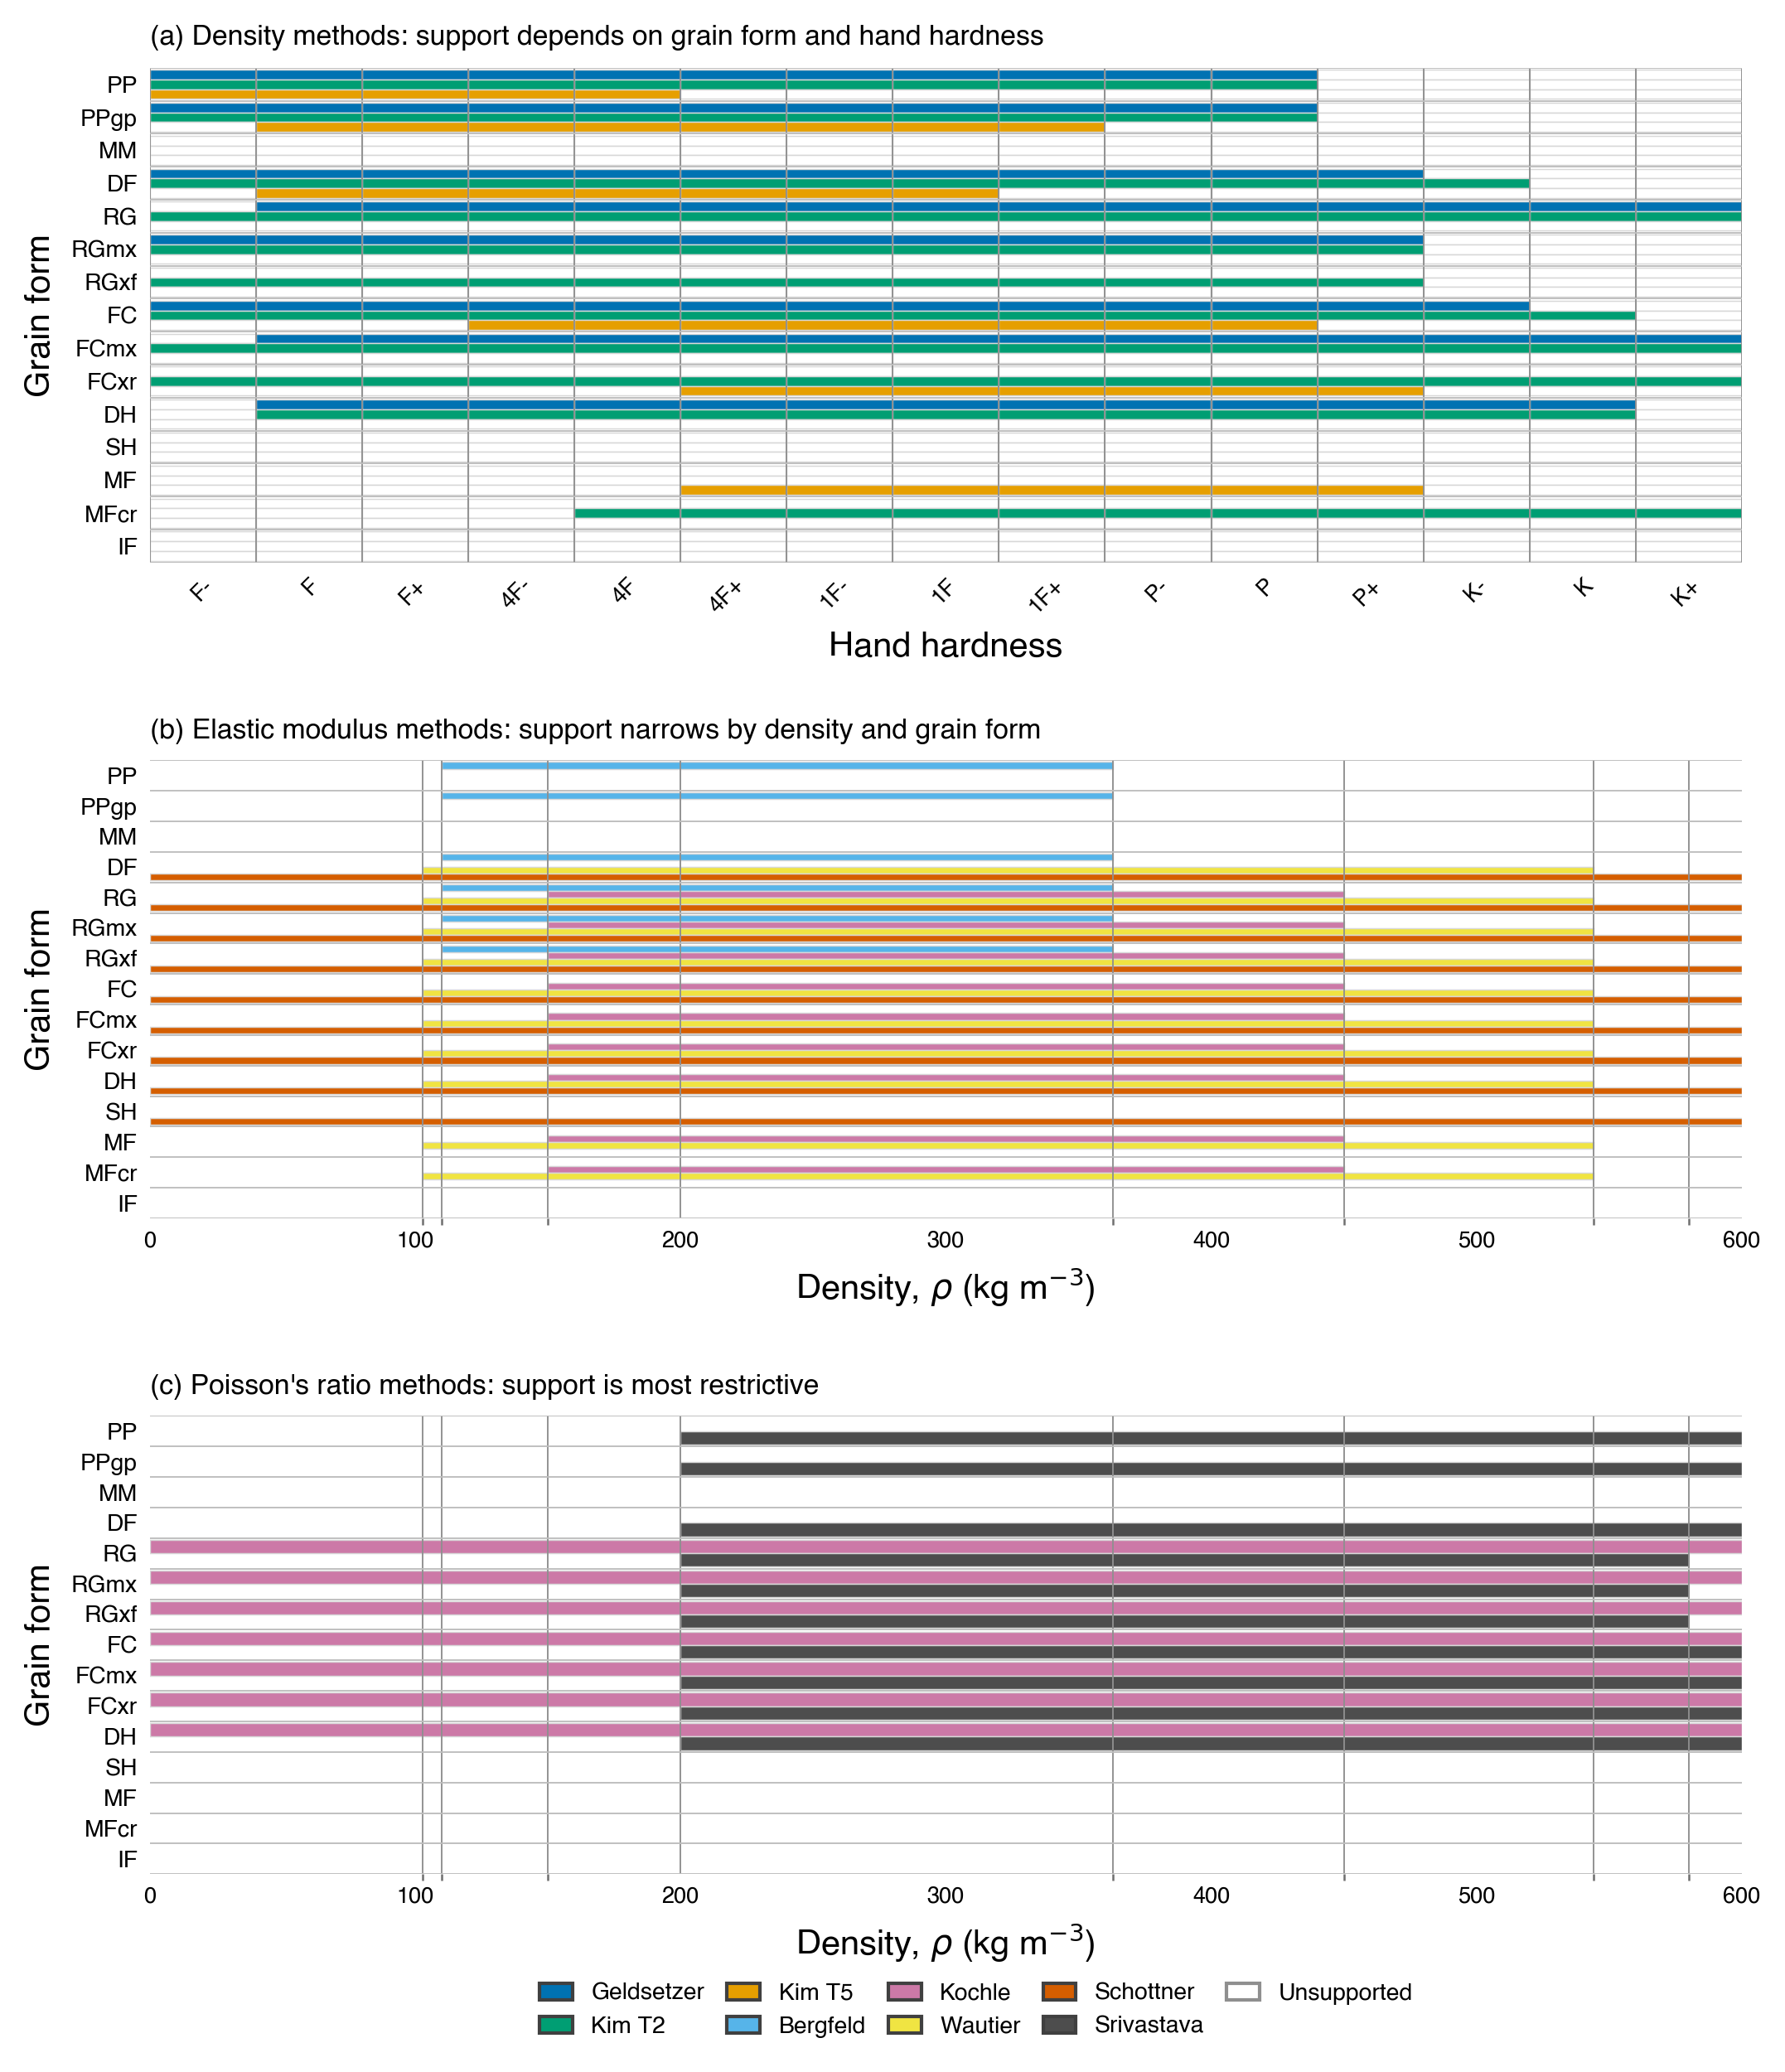
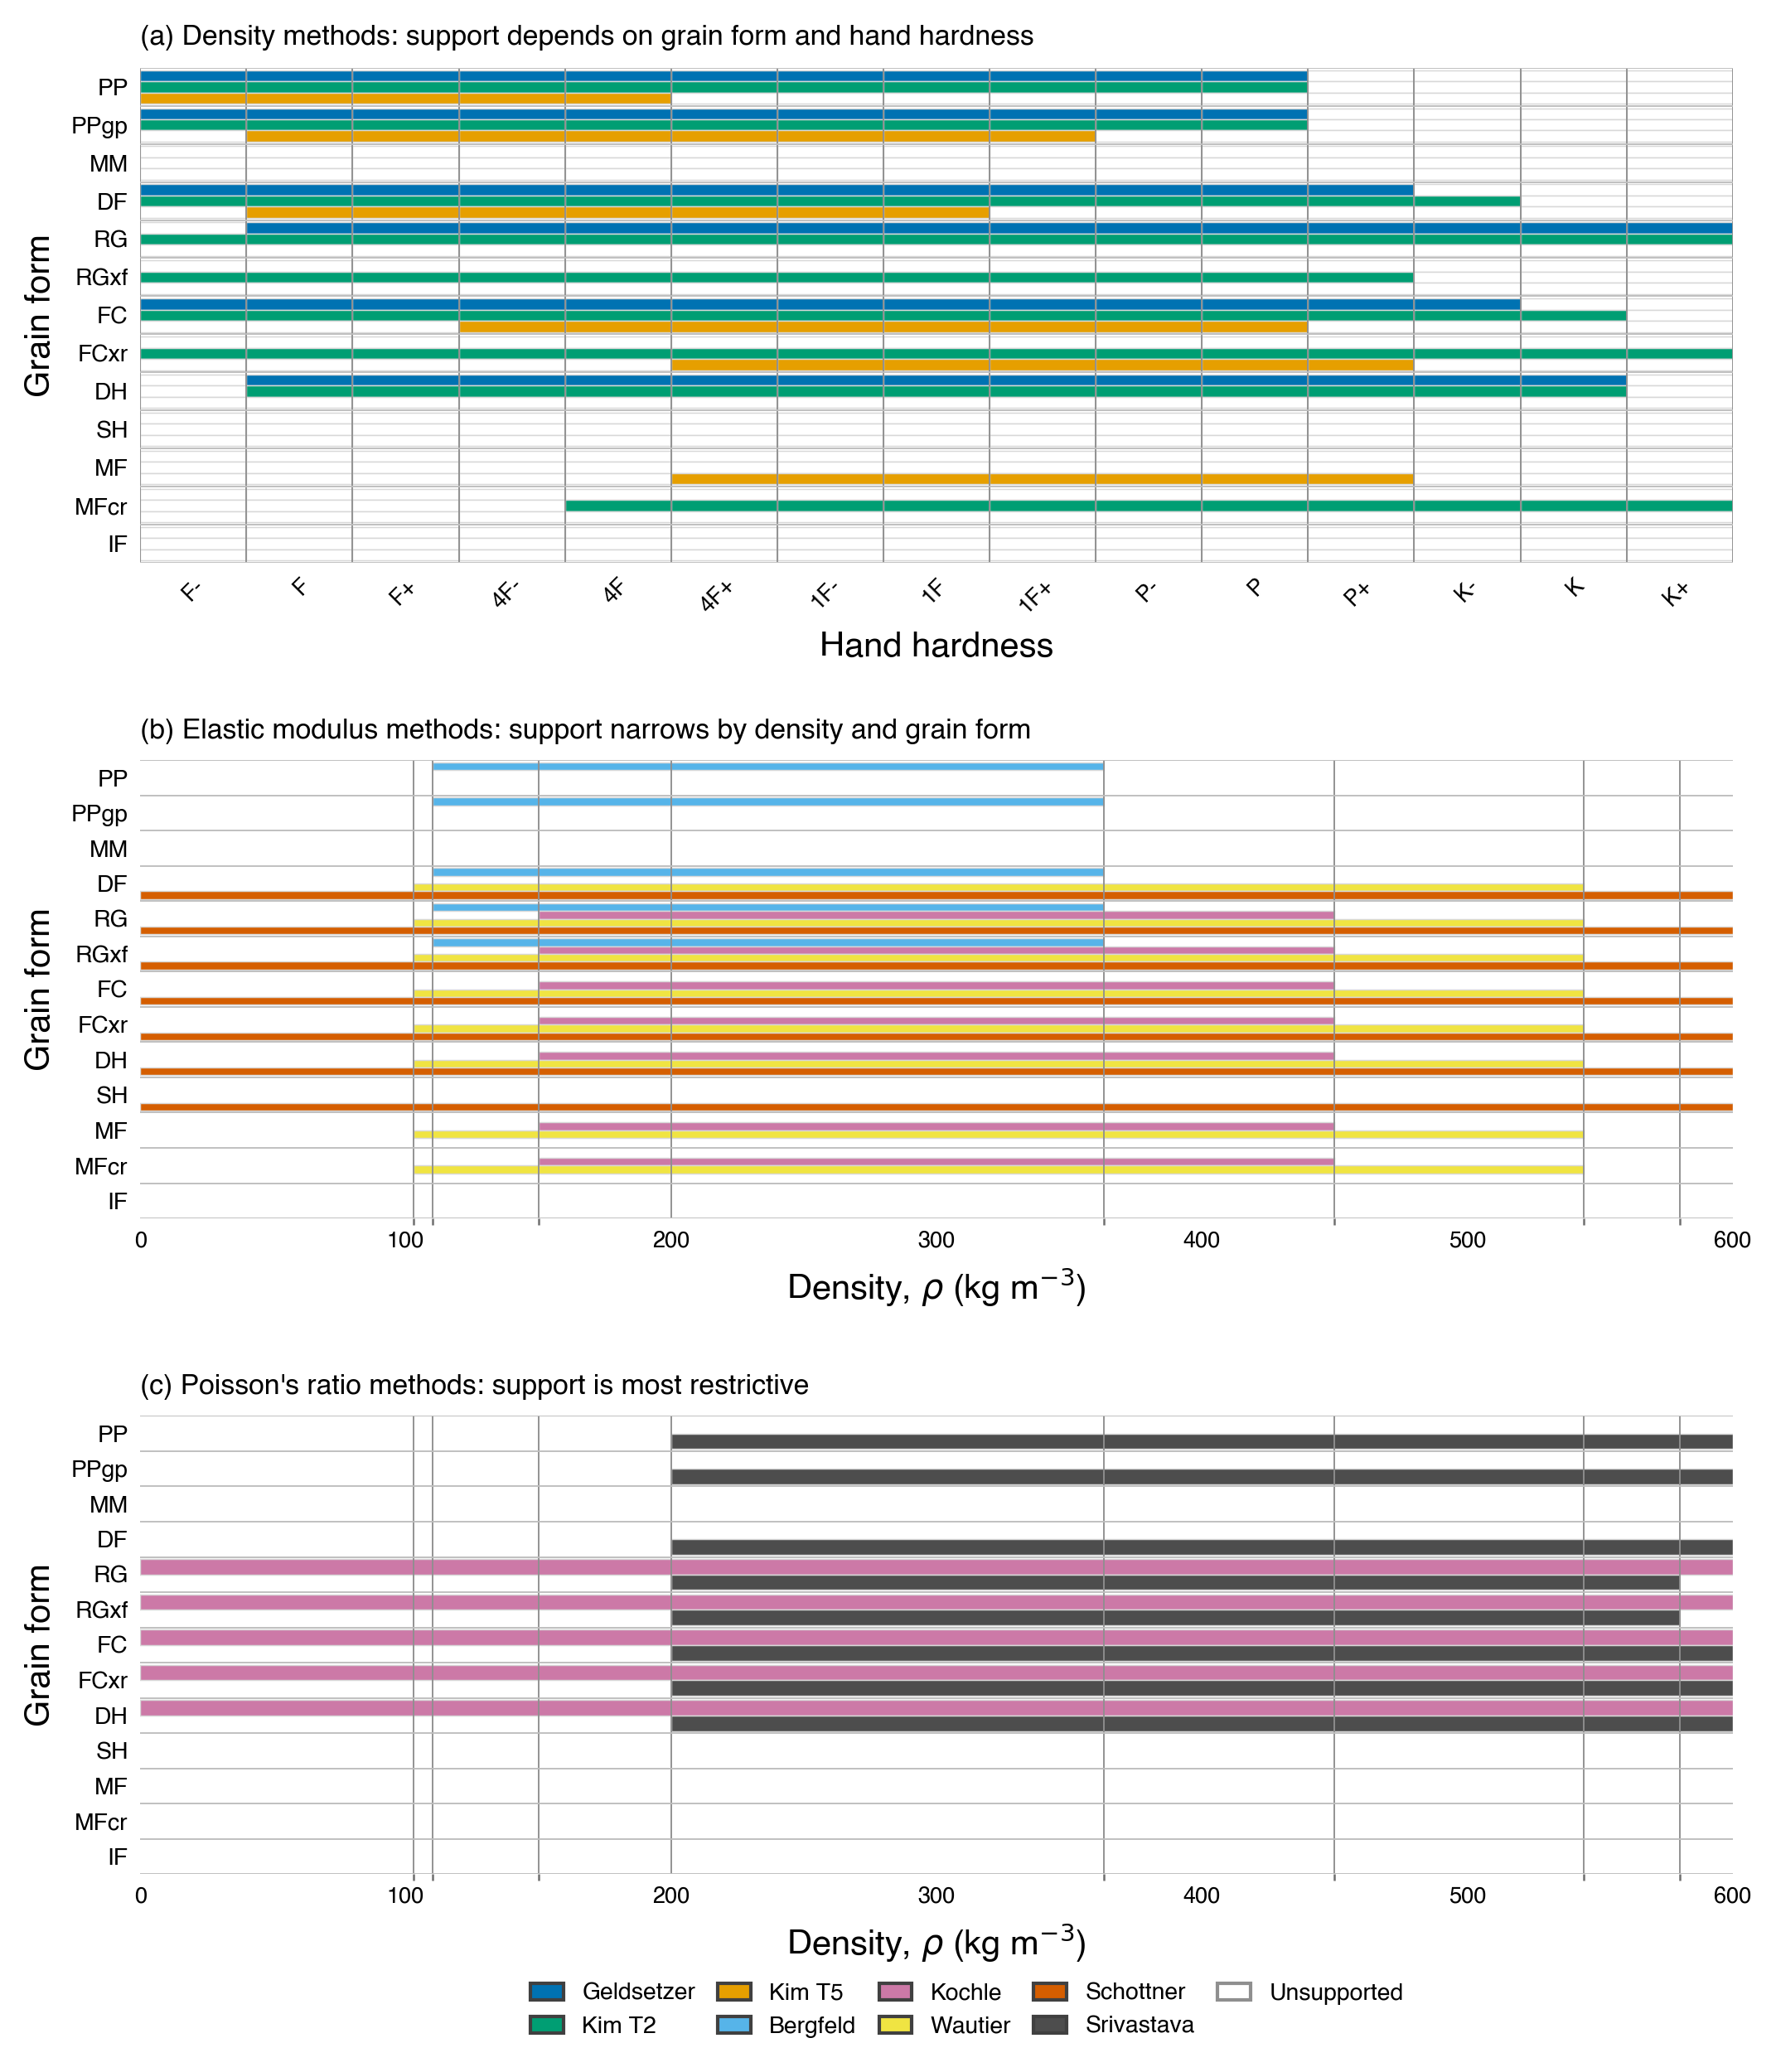
remove mx grain forms

diff --git a/tests/test_density_methods.py b/tests/test_density_methods.py
@@ -65,16 +65,6 @@ class TestGeldsetzerNumerical:
         )
         assert result.nominal_value == pytest.approx(expected, rel=1e-4)
 
-    def test_RGmx_linear(self):
-        """RGmx: rho = 91 + 42*h.  h=2.0 => rho=175."""
-        result = calculate_density(
-            "geldsetzer",
-            hand_hardness_index=ufloat(2.0, 0.0),
-            grain_form="RGmx",
-            include_method_uncertainty=False,
-        )
-        assert result.nominal_value == pytest.approx(175.0, abs=0.01)
-
     def test_unsupported_grain_form_returns_nan(self):
         result = calculate_density(
             "geldsetzer",
@@ -233,26 +223,6 @@ class TestKimJamiesonTable2Numerical:
             include_method_uncertainty=False,
         )
         assert result.nominal_value == pytest.approx(41.3 + 40.3 * 4.0, abs=0.01)
-
-    def test_RGmx_linear(self):
-        """RGmx uses the Kim & Jamieson mixed rounded-grain coefficients."""
-        result = calculate_density(
-            "kim_jamieson_table2",
-            hand_hardness_index=ufloat(4.33, 0.0),
-            grain_form="RGmx",
-            include_method_uncertainty=False,
-        )
-        assert result.nominal_value == pytest.approx(85.0 + 46.3 * 4.33, abs=0.01)
-
-    def test_FCmx_linear(self):
-        """FCmx uses the Kim & Jamieson mixed faceted-crystal coefficients."""
-        result = calculate_density(
-            "kim_jamieson_table2",
-            hand_hardness_index=ufloat(5.33, 0.0),
-            grain_form="FCmx",
-            include_method_uncertainty=False,
-        )
-        assert result.nominal_value == pytest.approx(68.8 + 58.6 * 5.33, abs=0.01)
 
 
 # ---------------------------------------------------------------------------

diff --git a/src/snowpyt_mechparams/layer_parameters/density.py b/src/snowpyt_mechparams/layer_parameters/density.py
@@ -90,13 +90,12 @@ def _calculate_density_geldsetzer(hand_hardness_index: UncertainValue, grain_for
         applied. Obtain via ``Layer.hand_hardness_index``.
     grain_form : str
         Grain form classification. Supported values:
-        - 'PP', 'PPgp', 'DF', 'RG', 'RGmx', 'FC', 'FCmx', 'DH'
+        - 'PP', 'PPgp', 'DF', 'RG', 'FC', 'DH'
         Supported hand-hardness ranges by grain form:
         - PP, PPgp: F- to P
-        - DF, RGmx: F- to P+
+        - DF: F- to P+
         - RG: F to K+
         - FC: F- to K-
-        - FCmx: F to K+
         - DH: F to K
 
     Returns
@@ -110,7 +109,7 @@ def _calculate_density_geldsetzer(hand_hardness_index: UncertainValue, grain_for
     -----
     The Geldsetzer formulas apply different regression models based on grain type:
     - Linear regression (rho = A + B*h): Used for most grain types including PP,
-      PPgp, DF, RGmx, FC, FCmx, and DH
+      PPgp, DF, FC, and DH
     - Non-linear regression (rho = A + B*h^x): Applied specifically to rounded
       grain types (RG) which do not conform well to linear relationships
 
@@ -131,7 +130,7 @@ def _calculate_density_geldsetzer(hand_hardness_index: UncertainValue, grain_for
     Workshop, Big Sky, Montana, USA, 1-6 October 2000, 121-127.
     """
     # Validate grain form
-    valid_grain_forms = ['PP', 'PPgp', 'DF', 'RG', 'RGmx', 'FC', 'FCmx', 'DH']
+    valid_grain_forms = ['PP', 'PPgp', 'DF', 'RG', 'FC', 'DH']
     if grain_form not in valid_grain_forms:
         logger.debug("_calculate_density_geldsetzer: unsupported grain_form=%r", grain_form)
         return ufloat(np.nan, np.nan)
@@ -148,9 +147,7 @@ def _calculate_density_geldsetzer(hand_hardness_index: UncertainValue, grain_for
         'PPgp': (0.67, 4.00),  # F- to P
         'DF': (0.67, 4.33),    # F- to P+
         'RG': (1.00, 5.33),    # F to K+
-        'RGmx': (0.67, 4.33),  # F- to P+
         'FC': (0.67, 4.67),    # F- to K-
-        'FCmx': (1.00, 5.33),  # F to K+
         'DH': (1.00, 5.00),    # F to K
     }
     min_hhi, max_hhi = hardness_ranges[grain_form]
@@ -166,9 +163,7 @@ def _calculate_density_geldsetzer(hand_hardness_index: UncertainValue, grain_for
         'PPgp': {'A': 83.0, 'B': 37.0, 'SE': 42.0, 'formula': 'linear'},
         'DF': {'A': 65.0, 'B': 36.0, 'SE': 30.0, 'formula': 'linear'},
         'RG': {'A': 154.0, 'B': 1.51, 'SE': 46.0, 'formula': 'nonlinear'},
-        'RGmx': {'A': 91.0, 'B': 42.0, 'SE': 32.0, 'formula': 'linear'},
         'FC': {'A': 112.0, 'B': 46.0, 'SE': 43.0, 'formula': 'linear'},
-        'FCmx': {'A': 56.0, 'B': 64.0, 'SE': 43.0, 'formula': 'linear'},
         'DH': {'A': 185.0, 'B': 25.0, 'SE': 41.0, 'formula': 'linear'}
     }
 
@@ -211,15 +206,14 @@ def _calculate_density_kim_jamieson_table2(
         applied. Obtain via ``Layer.hand_hardness_index``.
     grain_form : str
         Grain form classification. Supported values:
-        - 'PP', 'PPgp', 'DF', 'RG', 'RGmx', 'RGxf', 'FC', 'FCmx',
-          'FCxr', 'DH', 'MFcr'
+        - 'PP', 'PPgp', 'DF', 'RG', 'RGxf', 'FC', 'FCxr', 'DH', 'MFcr'
         Supported hand-hardness ranges by grain form, from Table 3:
         - PP, PPgp: F- to P
         - DF: F- to K-
         - RG: F- to K+
-        - RGmx/RGxf: F- to P+
+        - RGxf: F- to P+
         - FC: F- to K
-        - FCmx/FCxr: F- to K+
+        - FCxr: F- to K+
         - DH: F to K
         - MFcr: 4F to K+
 
@@ -252,7 +246,7 @@ def _calculate_density_kim_jamieson_table2(
     """
     # Validate grain form
     valid_grain_forms = [
-        'PP', 'PPgp', 'DF', 'RG', 'RGmx', 'RGxf', 'FC', 'FCmx', 'FCxr',
+        'PP', 'PPgp', 'DF', 'RG', 'RGxf', 'FC', 'FCxr',
         'DH', 'MFcr',
     ]
     if grain_form not in valid_grain_forms:
@@ -271,10 +265,8 @@ def _calculate_density_kim_jamieson_table2(
         'PPgp': (0.67, 4.00),  # F- to P
         'DF': (0.67, 4.67),    # F- to K-
         'RG': (0.67, 5.33),    # F- to K+
-        'RGmx': (0.67, 4.33),  # F- to P+
         'RGxf': (0.67, 4.33),  # F- to P+
         'FC': (0.67, 5.00),    # F- to K
-        'FCmx': (0.67, 5.33),  # F- to K+
         'FCxr': (0.67, 5.33),  # F- to K+
         'DH': (1.00, 5.00),    # F to K
         'MFcr': (2.00, 5.33),  # 4F to K+
@@ -300,10 +292,8 @@ def _calculate_density_kim_jamieson_table2(
         'PP': {'A': 41.3, 'B': 40.3, 'SE': 27.0, 'formula': 'linear'},
         'PPgp': {'A': 61.8, 'B': 46.4, 'SE': 43.0, 'formula': 'linear'},
         'DF': {'A': 62.5, 'B': 37.4, 'SE': 31.0, 'formula': 'linear'},
-        'RGmx': {'A': 85.0, 'B': 46.3, 'SE': 40.0, 'formula': 'linear'},
         'RGxf': {'A': 85.0, 'B': 46.3, 'SE': 40.0, 'formula': 'linear'},
         'FC': {'A': 103, 'B': 50.6, 'SE': 47.0, 'formula': 'linear'},
-        'FCmx': {'A': 68.8, 'B': 58.6, 'SE': 46.0, 'formula': 'linear'},
         'FCxr': {'A': 68.8, 'B': 58.6, 'SE': 46.0, 'formula': 'linear'},
         'DH': {'A': 214.0, 'B': 19.0, 'SE': 48.0, 'formula': 'linear'},
         'MFcr': {'A': 235, 'B': 15.1, 'SE': 58.0, 'formula': 'linear'},

diff --git a/tests/test_dispatcher_grain_form.py b/tests/test_dispatcher_grain_form.py
@@ -20,9 +20,9 @@ class TestGrainFormResolution:
     
     def test_sub_grain_form(self):
         """Test longer sub-grain form codes."""
-        layer = Layer(grain_form='RGmx')
+        layer = Layer(grain_form='RGxf')
         result = _resolve_grain_form(layer)
-        assert result == 'RGmx'
+        assert result == 'RGxf'
     
     def test_none_grain_form(self):
         """Test handling of None grain_form."""
@@ -39,11 +39,10 @@ class TestGrainFormResolution:
     
     def test_method_specific_sub_code(self):
         """Test method-specific grain code resolution with sub-grain code."""
-        layer = Layer(grain_form='RGmx')
+        layer = Layer(grain_form='RGxf')
         # Should work with sub-grain codes too if they're in the valid set
         result = _resolve_grain_form(layer, method_name='density_method_geldsetzer')
-        # RGmx might not be in valid codes, but function should return it anyway
-        assert result is not None
+        assert result == 'RG'
     
     def test_main_grain_form_fallback(self):
         """Test that main_grain_form property is used as fallback."""
@@ -77,7 +76,7 @@ class TestGrainFormResolution:
         
         This tests that the fix prevents the AttributeError that was occurring.
         """
-        layer = Layer(grain_form='RGmx', density_measured=250, hand_hardness='4F')
+        layer = Layer(grain_form='RGxf', density_measured=250, hand_hardness='4F')
         
         # Should not raise AttributeError
         try:

diff --git a/src/snowpyt_mechparams/constants.py b/src/snowpyt_mechparams/constants.py
@@ -81,7 +81,7 @@ HARDNESS_MAPPING = {
 # Defines which grain forms are valid for each density calculation method
 GRAIN_FORM_METHODS = {
     "geldsetzer": {
-        "sub_grain_class": {"PPgp", "RGmx", "FCmx"},
+        "sub_grain_class": {"PPgp"},
         "basic_grain_class": {"PP", "DF", "RG", "FC", "DH"},
     },
     "kim_jamieson_table2": {
@@ -103,7 +103,7 @@ def resolve_grain_form_for_method(
     Resolve which grain form code to use for a given density method.
     
     This is the single source of truth for grain form validation logic.
-    It tries the full grain_form first (which could be a sub-grain code like 'RGmx'),
+    It tries the full grain_form first (which could be a sub-grain code like 'FCxr'),
     then falls back to the basic grain class (first 2 characters like 'RG').
     
     Parameters
@@ -111,7 +111,7 @@ def resolve_grain_form_for_method(
     grain_form : Optional[str]
         The grain form code to resolve. Can be either:
         - A 2-character basic grain class code (e.g., 'RG', 'FC', 'PP')
-        - A longer sub-grain class code (e.g., 'RGmx', 'FCxr', 'PPgp')
+        - A longer sub-grain class code (e.g., 'RGxf', 'FCxr', 'PPgp')
         - None
     method : str
         The density estimation method name. Should be one of the keys in
@@ -127,8 +127,8 @@ def resolve_grain_form_for_method(
     
     Examples
     --------
-    >>> resolve_grain_form_for_method('RGmx', 'geldsetzer')
-    'RGmx'  # Sub-grain code is valid for this method
+    >>> resolve_grain_form_for_method('PPgp', 'geldsetzer')
+    'PPgp'  # Sub-grain code is valid for this method
     
     >>> resolve_grain_form_for_method('RGxf', 'geldsetzer')
     'RG'  # Sub-grain code not valid, falls back to basic class

diff --git a/tests/test_grain_form_utils.py b/tests/test_grain_form_utils.py
@@ -21,9 +21,9 @@ class TestResolveGrainFormForMethod:
     
     def test_valid_sub_grain_code(self):
         """Test sub-grain code that is valid for the method."""
-        # RGmx is in geldsetzer's sub_grain_class set
-        result = resolve_grain_form_for_method("RGmx", "geldsetzer")
-        assert result == "RGmx"
+        # PPgp is in geldsetzer's sub_grain_class set
+        result = resolve_grain_form_for_method("PPgp", "geldsetzer")
+        assert result == "PPgp"
     
     def test_valid_basic_grain_code(self):
         """Test basic grain code that is valid for the method."""
@@ -67,8 +67,6 @@ class TestResolveGrainFormForMethod:
         """Test geldsetzer-specific grain form codes."""
         # Valid sub-grain codes
         assert resolve_grain_form_for_method("PPgp", "geldsetzer") == "PPgp"
-        assert resolve_grain_form_for_method("RGmx", "geldsetzer") == "RGmx"
-        assert resolve_grain_form_for_method("FCmx", "geldsetzer") == "FCmx"
         
         # Valid basic codes
         assert resolve_grain_form_for_method("PP", "geldsetzer") == "PP"

diff --git a/examples/paper_figure_utils.py b/examples/paper_figure_utils.py
@@ -183,10 +183,8 @@ SUPPORT_GRAIN_FORM_ORDER = [
     "MM",
     "DF",
     "RG",
-    "RGmx",
     "RGxf",
     "FC",
-    "FCmx",
     "FCxr",
     "DH",
     "SH",
@@ -221,9 +219,7 @@ DENSITY_SUPPORT_RANGES = {
         "PPgp": (0.67, 4.00),
         "DF": (0.67, 4.33),
         "RG": (1.00, 5.33),
-        "RGmx": (0.67, 4.33),
         "FC": (0.67, 4.67),
-        "FCmx": (1.00, 5.33),
         "DH": (1.00, 5.00),
     },
     "kim_jamieson_table2": {
@@ -231,10 +227,8 @@ DENSITY_SUPPORT_RANGES = {
         "PPgp": (0.67, 4.00),
         "DF": (0.67, 4.67),
         "RG": (0.67, 5.33),
-        "RGmx": (0.67, 4.33),
         "RGxf": (0.67, 4.33),
         "FC": (0.67, 5.00),
-        "FCmx": (0.67, 5.33),
         "FCxr": (0.67, 5.33),
         "DH": (1.00, 5.00),
         "MFcr": (2.00, 5.33),

diff --git a/src/snowpyt_mechparams/models/layer.py b/src/snowpyt_mechparams/models/layer.py
@@ -33,7 +33,7 @@ class Layer:
     hand_hardness: str
         Layer hand hardness
     grain_form: str
-        Grain form code: sub-grain class (e.g., 'FCxr', 'PPgp', 'RGmx') if available,
+        Grain form code: sub-grain class (e.g., 'FCxr', 'PPgp', 'RGxf') if available,
         otherwise basic class (e.g., 'FC', 'PP', 'RG')
     grain_size_avg: Union[float, uncertainties.UFloat]
         Average grain size in millimeters (mm). Can include uncertainty.
@@ -71,7 +71,7 @@ class Layer:
     thickness: Optional[UncertainValue] = None  # cm - Layer thickness
     density_measured: Optional[UncertainValue] = None  # kg/m³ - Layer density measured directly
     hand_hardness: Optional[str] = None  # Layer hand hardness
-    grain_form: Optional[str] = None  # Grain form code: sub-grain class (e.g., 'FCxr', 'PPgp', 'RGmx') if available, otherwise basic class (e.g., 'FC', 'PP', 'RG')
+    grain_form: Optional[str] = None  # Grain form code: sub-grain class (e.g., 'FCxr', 'PPgp', 'RGxf') if available, otherwise basic class (e.g., 'FC', 'PP', 'RG')
     grain_size_avg: Optional[UncertainValue] = None  # mm - Average grain size
     layer_of_concern: bool = False  # Whether this layer is marked as layer of concern
 
@@ -134,7 +134,7 @@ class Layer:
 
         Returns the first two characters of grain_form, which extracts the basic
         grain class code:
-        - For sub-grain codes (e.g., 'FCxr', 'PPgp', 'RGmx'): returns basic form ('FC', 'PP', 'RG')
+        - For sub-grain codes (e.g., 'FCxr', 'PPgp', 'RGxf'): returns basic form ('FC', 'PP', 'RG')
         - For basic codes (e.g., 'FC', 'PP', 'RG'): returns same value (already basic)
 
         This property is useful when you need the basic grain class regardless of

diff --git a/src/snowpyt_mechparams/execution/dispatcher.py b/src/snowpyt_mechparams/execution/dispatcher.py
@@ -119,7 +119,7 @@ def _resolve_grain_form(layer: Layer, method_name: Optional[str] = None) -> Opti
     
     The grain_form attribute can contain either:
     - A 2-character basic grain class code (e.g., 'RG', 'FC')
-    - A longer sub-grain class code (e.g., 'RGmx', 'FCxr')
+    - A longer sub-grain class code (e.g., 'RGxf', 'FCxr')
 
     Parameters
     ----------

diff --git a/docs/code_description.md b/docs/code_description.md
@@ -102,7 +102,7 @@ Density is used by every downstream calculation that requires a physical layer p
 
 `**geldsetzer**` (Geldsetzer & Jamieson, 2000)
 
-Estimates density from hand hardness index and grain form using linear regressions fitted to a Canadian dataset. A separate non-linear regression (ρ = A + B·h³·¹⁵) is used for rounded grains (RG), which do not conform well to a linear relationship. Supported grain forms: PP, PPgp, DF, RG, RGmx, FC, FCmx, DH. Method uncertainty is the regression standard error reported in Table 3 of the source paper.
+Estimates density from hand hardness index and grain form using linear regressions fitted to a Canadian dataset. A separate non-linear regression (ρ = A + B·h³·¹⁵) is used for rounded grains (RG), which do not conform well to a linear relationship. Supported grain forms: PP, PPgp, DF, RG, FC, DH. Method uncertainty is the regression standard error reported in Table 3 of the source paper.
 
 `**kim_jamieson_table2**` (Kim & Jamieson, 2014)
 